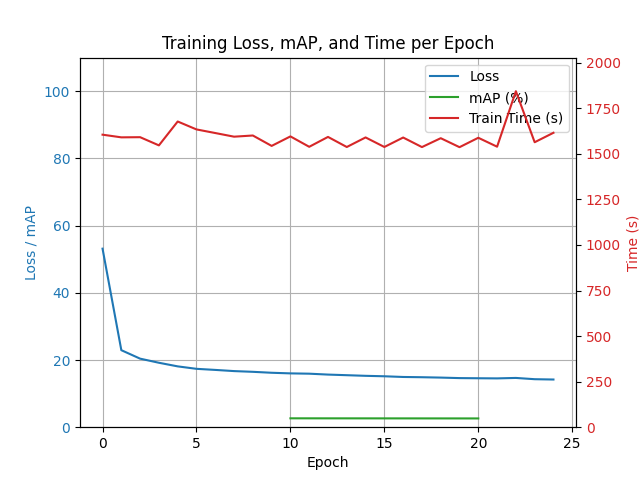
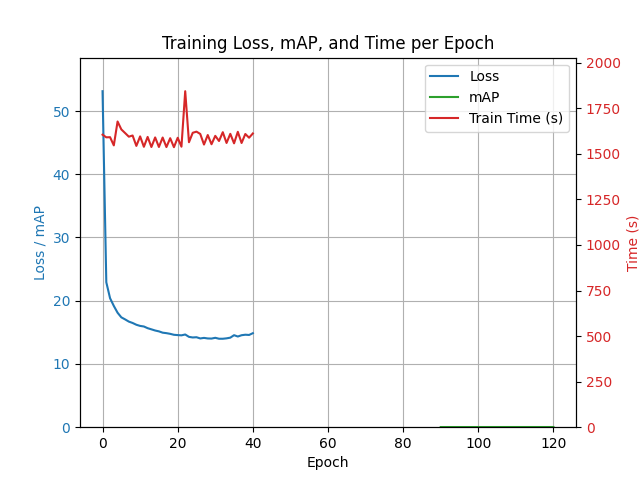
resnet by default and faster_coco_eval

diff --git a/YOLOv1/model.py b/YOLOv1/model.py
@@ -150,7 +150,7 @@ class DetectionNet(nn.Module):
         super().__init__()
 
         inner_channels = 1024
-        self.depth = 5 * config.B + config.C
+        self.depth = config.B * (5 + config.C)
         self.model = nn.Sequential(
             nn.Conv2d(in_channels, inner_channels, kernel_size=3, padding=1),
             nn.LeakyReLU(negative_slope=0.1),
@@ -174,10 +174,8 @@ class DetectionNet(nn.Module):
         )
 
     def forward(self, x):
-        return torch.reshape(
-            self.model.forward(x),
-            (-1, config.S, config.S, self.depth)
-        )
+        x = self.model(x)
+        return x.view(-1, config.S, config.S, self.depth)
     
 class Reshape(nn.Module):
     def __init__(self, *args):

diff --git a/YOLOv1/view_img_bbox.py b/YOLOv1/view_img_bbox.py
@@ -4,12 +4,12 @@ import matplotlib.pyplot as plt
 import matplotlib.patches as patches
 from torch.utils.data import DataLoader
 from data import VOCDataset
-from model import YOLOv1
+from model import YOLOv1ResNet
 import config
 
 # Load model
-model = YOLOv1().to(config.device)
-state_dict = torch.load("checkpoints/YOLOv1/best_model.pth", map_location=config.device)
+model = YOLOv1ResNet().to(config.device)
+state_dict = torch.load("checkpoints/YOLOv1ResNet/best_model.pth", map_location=config.device)
 model.load_state_dict(state_dict["model_state_dict"])
 model.eval()
 

diff --git a/YOLOv1/train.py b/YOLOv1/train.py
@@ -130,7 +130,7 @@ for epoch in range(start_epoch, config.EPOCHS):
     # Evaluate every 10 epochs
     if epoch % 10 == 0:
         model.eval()
-        metric = MeanAveragePrecision()
+        metric = MeanAveragePrecision(backend="faster_coco_eval")
         with torch.no_grad():
             for images, targets in test_loader:
                 images, targets = images.to(config.device), targets.to(config.device)

diff --git a/YOLOv1/config.py b/YOLOv1/config.py
@@ -11,7 +11,7 @@ if torch.cuda.is_available():
     device = torch.device("cuda")
 elif torch.backends.mps.is_available():
     device = torch.device("mps")
-model_name = "YOLOv1"
+model_name = "YOLOv1ResNet"
 
 print(f"Using device: {device}. Model: {model_name}")
 
